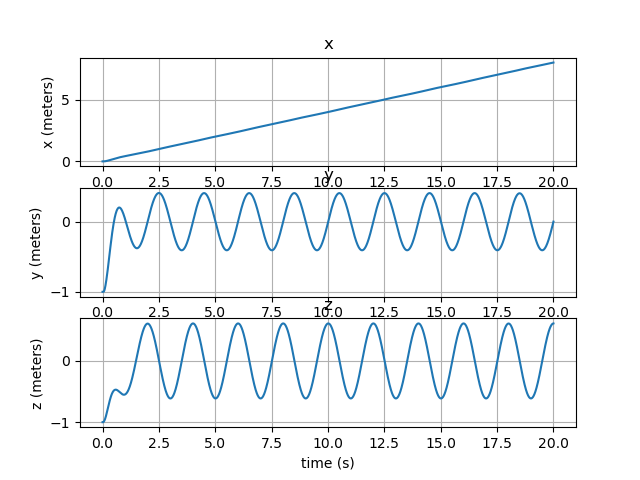
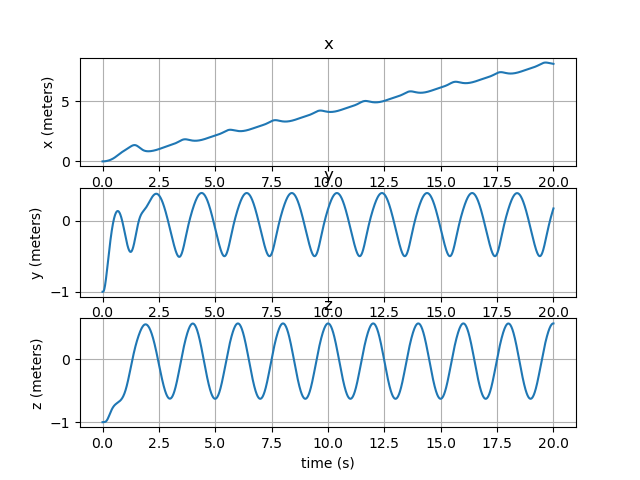
PseudoInverse Operational

diff --git a/MultiRotorDynamics.py b/MultiRotorDynamics.py
@@ -2,6 +2,7 @@ import control as ct
 import numpy as np
 import scipy as sp
 import utils as ut
+import pygad as ga
 from typing import List, Tuple
 from scipy.spatial.transform import Rotation as R
 from scipy.integrate import solve_ivp
@@ -9,7 +10,6 @@ from scipy.misc import derivative
 
 
 g = 9.81
-
 class Limb:
     def __init__(self, m, rot_vec, t_vec):
         self.m = m
@@ -214,32 +214,39 @@ class Controller():
         e3 = np.array([0,0,1],dtype = float)
         n_r = 0
         allocation_matrix = np.array([])
+        allocation_matrix_full = np.array([])
         for rotor in rotors:
             n_r += 1
             gamma = rotor.R@e3
             gamma_proj = e3.T@gamma #Forces projected on b3 in body frame
             theta = (ut.skew(rotor.t_vec)+rotor.C_q/rotor.C_t*rotor.sigma*np.eye(3))@gamma
 
-            allocation_matrix_full = np.append(allocation_matrix,np.insert(theta,0,gamma))
+            allocation_matrix_full = np.append(allocation_matrix_full,np.insert(theta,0,gamma))
+            print(allocation_matrix_full)
             allocation_matrix = np.append(allocation_matrix,np.insert(theta,0,gamma_proj))
+            print(allocation_matrix)
 
-        
-        
+        allocation_matrix_full = np.reshape(allocation_matrix_full,(6,n_r),'F')
+        allocation_matrix = np.reshape(allocation_matrix,(4,n_r),'F')
         
         if (np.linalg.matrix_rank(allocation_matrix_full) == 6):
+            print(6)
             self.fully_actuated = True
+            
             print(allocation_matrix_full)
-            allocation_matrix_full = np.reshape(allocation_matrix_full,(6,n_r)).T
             return allocation_matrix_full
         else:
+            print(np.linalg.matrix_rank(allocation_matrix_full))
             self.fully_actuated = False
-            allocation_matrix = np.reshape(allocation_matrix,(4,n_r)).T
+            
             print(allocation_matrix) 
             return allocation_matrix
 
     def force_allocation(self, f, M):
         forces = np.insert(M,0,f)
-        rotor_forces = np.linalg.solve(self.allocation_matrix,forces) #allocation_matrix@[f1,f2,f3,f4] = [f,M] solves for f1,f2,f3,f4
+        # print(forces)
+        # print(np.linalg.pinv(self.allocation_matrix))
+        rotor_forces = np.linalg.pinv(self.allocation_matrix)@forces #allocation_matrix@[f1,f2,f3,f4] = [f,M] solves for f1,f2,f3,f4
         # print(f"[f,M] : {forces}")
         return rotor_forces
 

diff --git a/main.py b/main.py
@@ -59,10 +59,14 @@ def main():
     TrajectoryPlanner = mrd.TrajectoryPlanner(delta_t,max_time,x_d,b1_d)
     
     #Normal Quadrotor rotors
-    rotors.append(mrd.Rotor(m_rotor,np.array([0,0,0],dtype=float),np.array([d,0,0],dtype=float),20,C_q,C_t,-1))
-    rotors.append(mrd.Rotor(m_rotor,np.array([0,0,0],dtype=float),np.array([0,d,0],dtype=float),-20,C_q,C_t,1))
-    rotors.append(mrd.Rotor(m_rotor,np.array([0,0,0],dtype=float),np.array([-d,0,0],dtype=float),20,C_q,C_t,-1))
-    rotors.append(mrd.Rotor(m_rotor,np.array([0,0,0],dtype=float),np.array([0,-d,0],dtype=float),-20,C_q,C_t,1))
+    rotors.append(mrd.Rotor(m_rotor,np.array([0,0,-np.pi/32],dtype=float),np.array([d,0,0],dtype=float),20,C_q,C_t,-1))
+    rotors.append(mrd.Rotor(m_rotor,np.array([0,np.pi/32,0],dtype=float),np.array([0,d,0],dtype=float),-20,C_q,C_t,1))
+    rotors.append(mrd.Rotor(m_rotor,np.array([0,0,np.pi/32],dtype=float),np.array([-d,0,0],dtype=float),20,C_q,C_t,-1))
+    rotors.append(mrd.Rotor(m_rotor,np.array([0,-np.pi/32,0],dtype=float),np.array([0,-d,0],dtype=float),-20,C_q,C_t,1))
+    rotors.append(mrd.Rotor(m_rotor,np.array([0,0,np.pi/3],dtype=float),np.array([d/np.sqrt(2),d/np.sqrt(2),0],dtype=float),20,C_q,C_t,-1))
+    rotors.append(mrd.Rotor(m_rotor,np.array([0,0,0],dtype=float),np.array([-d/np.sqrt(2),-d/np.sqrt(2),0],dtype=float),-20,C_q,C_t,1))
+    rotors.append(mrd.Rotor(m_rotor,np.array([0,0,np.pi/2],dtype=float),np.array([-d/np.sqrt(2),d/np.sqrt(2),0],dtype=float),20,C_q,C_t,-1))
+    rotors.append(mrd.Rotor(m_rotor,np.array([0,0,0],dtype=float),np.array([d/np.sqrt(2),-d/np.sqrt(2),0],dtype=float),-20,C_q,C_t,1))
     Controller = mrd.Controller(k_x,k_v,k_R,k_omega,TrajectoryPlanner, rotors)
     dep_cams.append(mrd.DepthCamera(m_dep_cam, rot_vec=np.array([0,0,0],dtype=float), t_vec=np.array([0,0,d],dtype=float),AoV=AoV,K = K,res = res))
     
